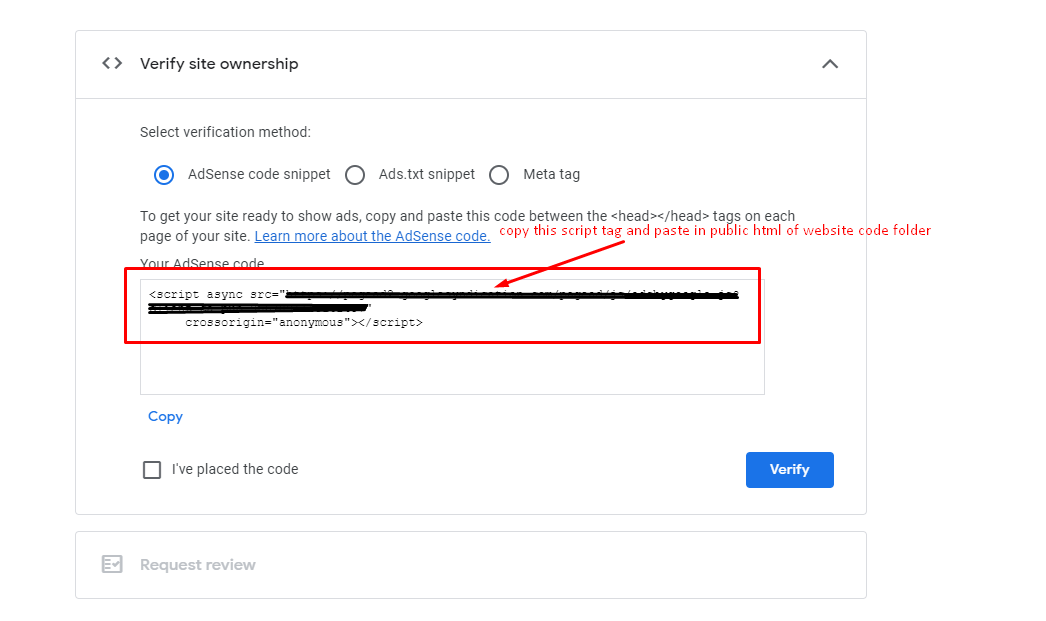
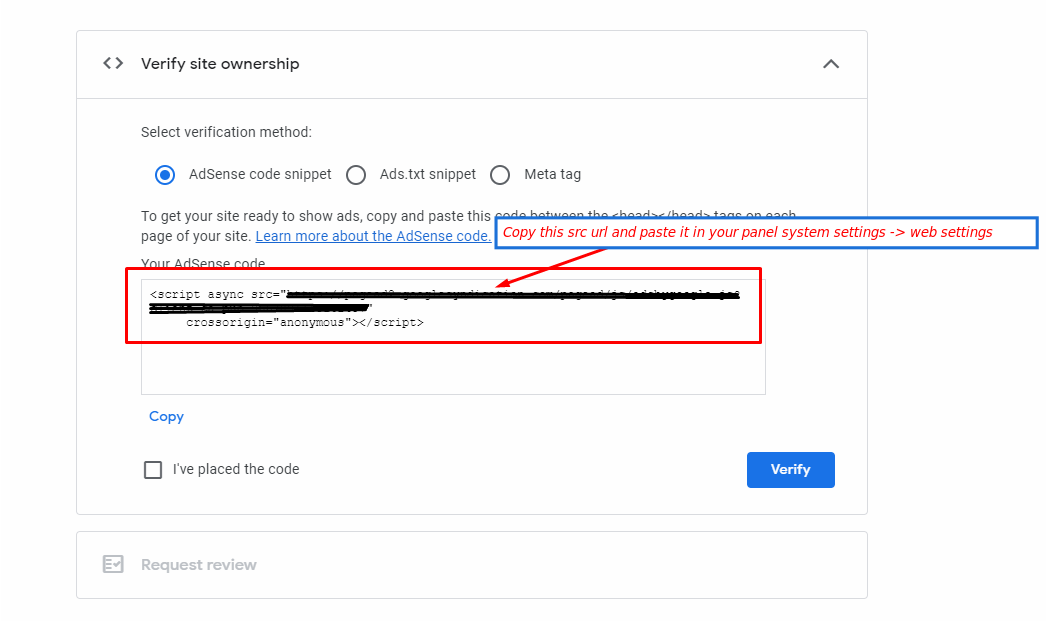
web: google adsense changes

diff --git a/index.html b/index.html
@@ -1615,9 +1615,9 @@
                                     <img src="images/web/adsense.png" alt="News" />
                                     <li>click on Let's Go button</li>
                                     <img src="images/web/adsensesite.png" alt="News" />
-                                    <li>Copy this script code and paste to your src -> pages -> _document.js</li>
+                                    <li>Copy this script code and paste to your admin panel -> system settings -> web settings</li>
                                     <img src="images/web/first_verify.png" alt="News" />
-                                    <img src="images/web/scripthtml.png" alt="News" />
+                                    <!-- <img src="images/web/scripthtml.png" alt="News" /> -->
                                     <li>
                                         after script add you need to run command for build folder <b>npm run
                                             export</b>
